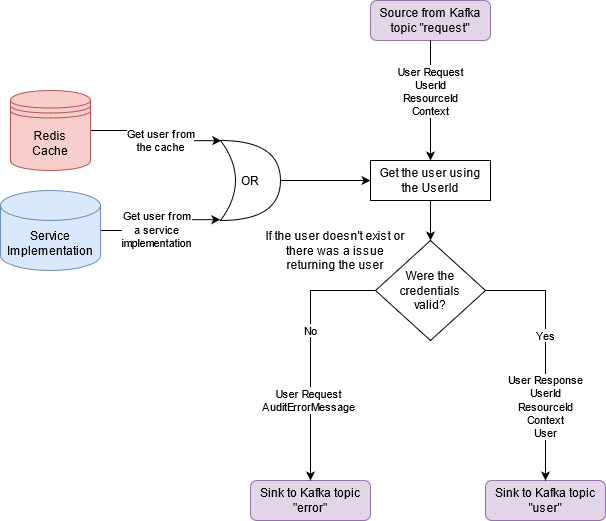
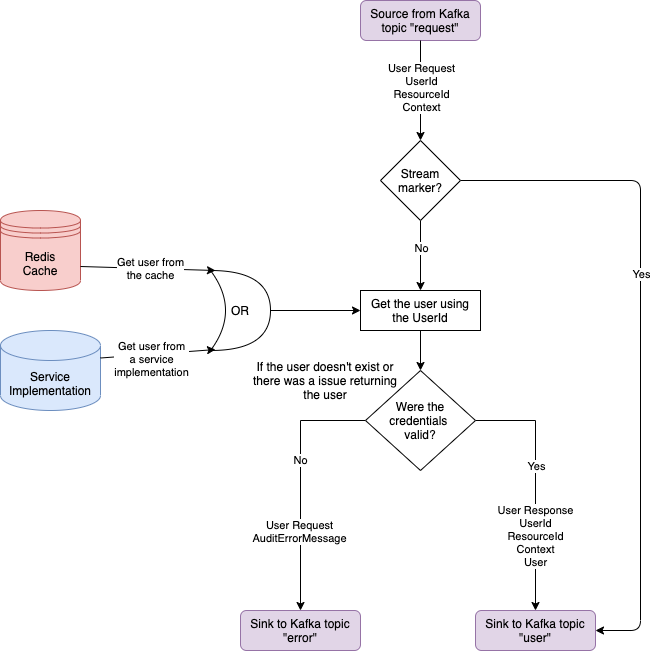
PAL-1090 updated palisade user and policy diagrams, updated palisade-service readme

diff --git a/palisade-service/README.md b/palisade-service/README.md
@@ -54,7 +54,7 @@ The service will then create an empty message to mark the start of the request.
 This is done by adding the value `START` to a custom header for the request named `x-stream-marker`, this empty message is then sent to the `user` topic.
 The service then sends the `PalisadeSystemResponse` onwards via the `user` kafka topic to the User service for further processing. 
 The service will then create another empty message to mark the end of the request.
-This is done in the same way as the start message but the header value is `END`.
+This is done in the same way as the start message, but the header value is `END`.
 The token is also added to a `PalisadeClientResponse` object, which is sent back to the client, so that they can get the processed request from the Filtered Resource Service.
 
 ## REST Interface
